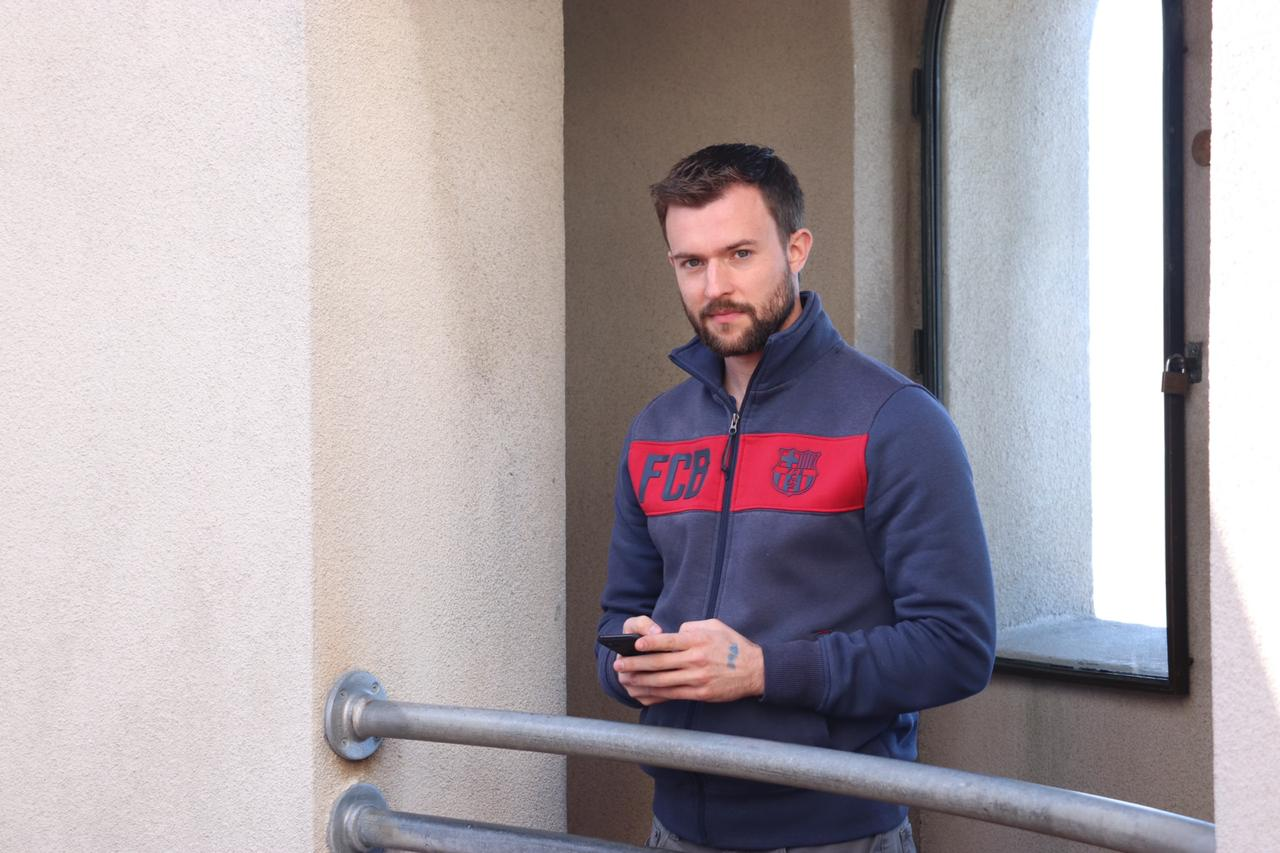
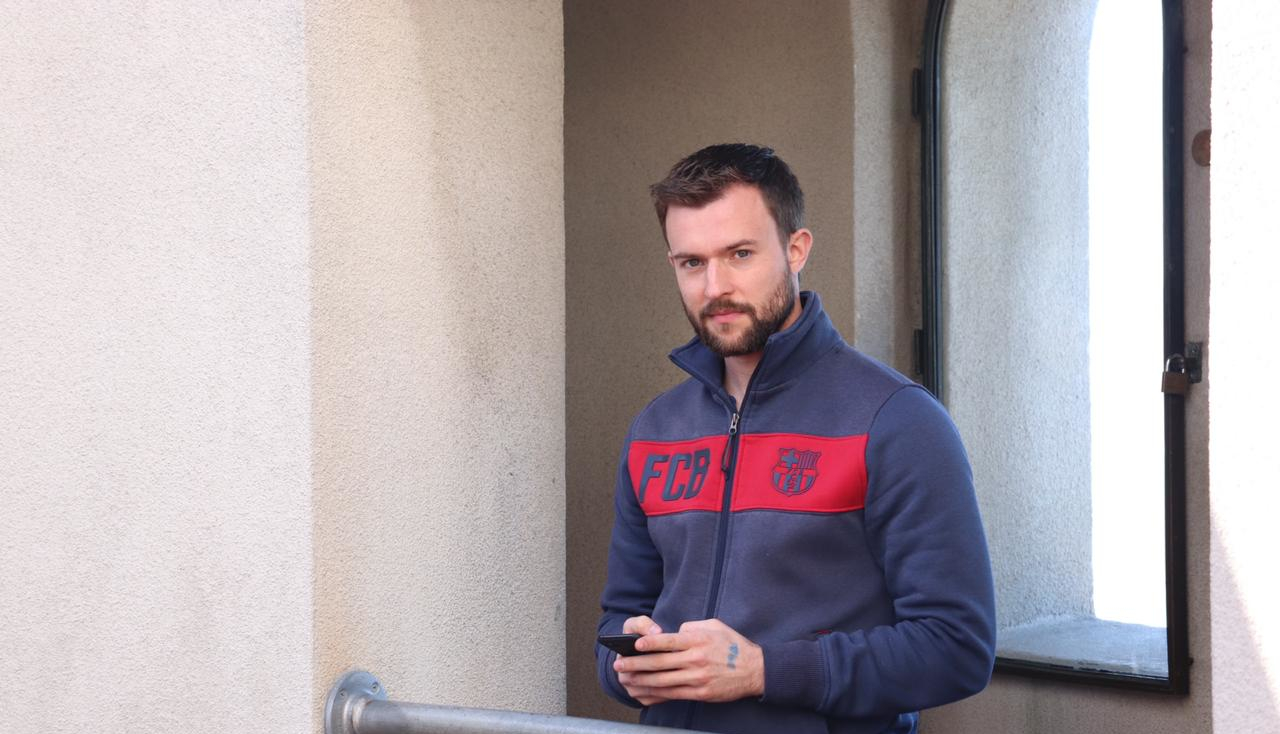
Resize post header images
They were too thick before requiring the user to have to scroll too far
down. This is a more reasonable height.

- Crop first post image

diff --git a/src/templates/post.tsx b/src/templates/post.tsx
@@ -458,7 +458,7 @@ export const PostFullTitle = styled.h1`
 
 const PostFullImage = styled.figure`
   margin: 25px 0 50px;
-  height: 800px;
+  height: 400px;
   background: ${colors.lightgrey} center center;
   background-size: cover;
   border-radius: 5px;
